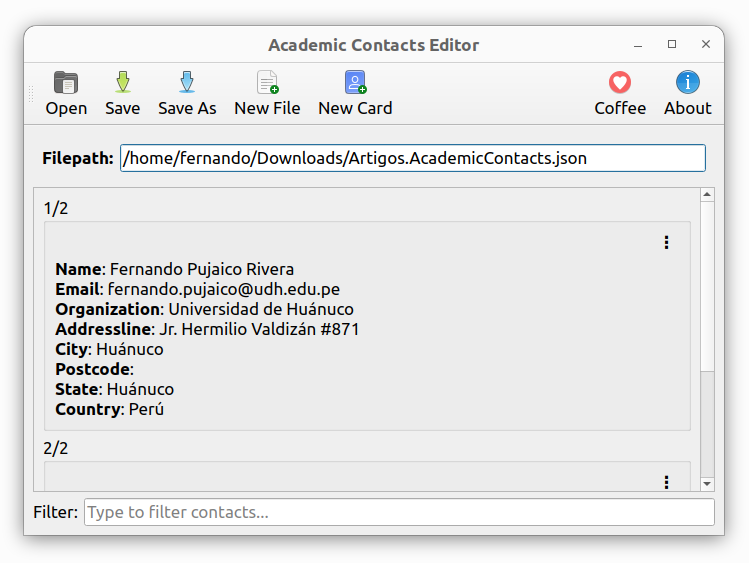
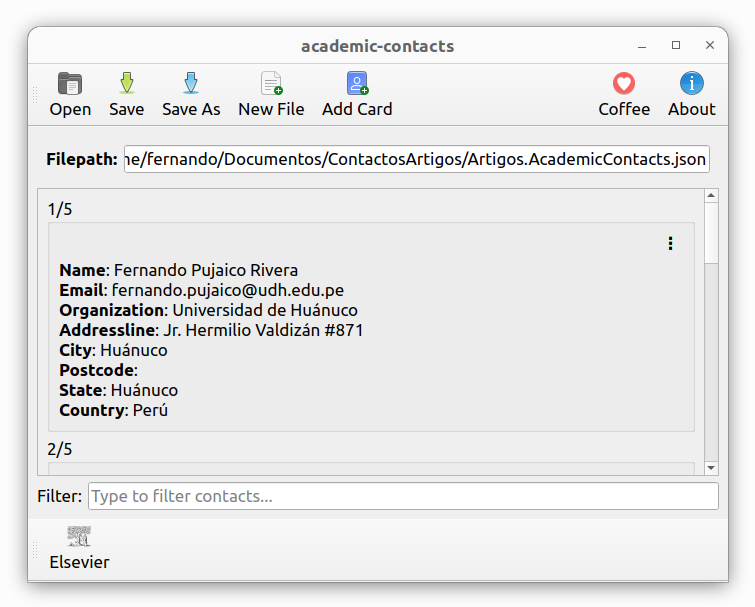
Mejorando codigo Elsevier

Changed region(s): [[0.0307, 0.0302, 0.9826, 0.9663], [0.8598, 0.3925, 0.8905, 0.4227]]

diff --git a/src/academic_contacts/program.py b/src/academic_contacts/program.py
@@ -65,33 +65,58 @@ class LatexDialog(QDialog):
 def show_latex_message(parent, text):
     dlg = LatexDialog(text, parent)
     dlg.exec_()
-    
+
+def latex_escape(text):
+    replacements = {
+        '\\': r'\textbackslash{}',
+        '{': r'\{',
+        '}': r'\}',
+        '#': r'\#',
+        '$': r'\$',
+        '%': r'\%',
+        '&': r'\&',
+        '_': r'\_',
+        '~': r'\textasciitilde{}',
+        '^': r'\^{}',
+    }
+    for char, repl in replacements.items():
+        text = text.replace(char, repl)
+    return text
+
+
 def export_elsevier_authors(data):
     # --- Tabelas para mapear afiliações ---
     affiliation_map = {}   # string da afiliação -> índice
     affiliations = []      # lista de afiliações únicas
     latex_lines = []
 
-    for entry in data:
+    if len(data)==0:
+        return ""
+    
+    
+    name = latex_escape(data[0]['name'].strip())
+    latex_lines.append(f"\\cortext[cor1]{{{name}}}\n")
+
+    for ID, entry in enumerate(data):
         # Verificar obrigatórios
         for key in ["name", "email", "organization"]:
             if key not in entry or not entry[key].strip():
                 raise ValueError(f"O campo obrigatório '{key}' está ausente ou vazio para {entry.get('name','<desconhecido>')}")
 
-        org = entry["organization"].strip()
+        org = latex_escape(entry["organization"].strip())
 
         # Montar chave única da afiliação (string padronizada)
         parts = [f"organization={{{org}}}"]
         if entry.get("addressline"):
-            parts.append(f"addressline={{{entry['addressline'].strip()}}}")
+            parts.append(f"addressline={{{latex_escape(entry['addressline'].strip())}}}")
         if entry.get("city"):
-            parts.append(f"city={{{entry['city'].strip()}}}")
+            parts.append(f"city={{{latex_escape(entry['city'].strip())}}}")
         if entry.get("postcode"):
-            parts.append(f"postcode={{{entry['postcode'].strip()}}}")
+            parts.append(f"postcode={{{latex_escape(entry['postcode'].strip())}}}")
         if entry.get("state"):
-            parts.append(f"state={{{entry['state'].strip()}}}")
+            parts.append(f"state={{{latex_escape(entry['state'].strip())}}}")
         if entry.get("country"):
-            parts.append(f"country={{{entry['country'].strip()}}}")
+            parts.append(f"country={{{latex_escape(entry['country'].strip())}}}")
 
         aff_string = ",\n            ".join(parts)
 
@@ -104,8 +129,14 @@ def export_elsevier_authors(data):
             aff_index = affiliation_map[aff_string]
 
         # Adicionar autor
-        latex_lines.append(f"\\author[{aff_index}]{{{entry['name'].strip()}}}")
-        latex_lines.append(f"\\ead{{{entry['email'].strip()}}}")
+        name = latex_escape(entry['name'].strip())
+        email = latex_escape(entry['email'].strip())
+
+        if ID==0:
+            latex_lines.append(f"\\author[{aff_index}]{{{name}\\corref{{cor1}}}}")
+        else:
+            latex_lines.append(f"\\author[{aff_index}]{{{name}}}")
+        latex_lines.append(f"\\ead{{{email}}}")
         latex_lines.append("")
 
     # Adicionar blocos de afiliação no final
@@ -114,6 +145,7 @@ def export_elsevier_authors(data):
         latex_lines.append("")
 
     return "\n".join(latex_lines)
+
 
 
 class ContactEditor(QDialog):
@@ -211,7 +243,7 @@ class AcademicContactsApp(QMainWindow):
         toolbar.addAction(new_file_action)
 
         #
-        new_card_action = QAction(QIcon.fromTheme("contact-new"), "New Card", self)
+        new_card_action = QAction(QIcon.fromTheme("contact-new"), "Add Card", self)
         new_card_action.setToolTip("Add a new card to current view")
         new_card_action.triggered.connect(self.add_new_card)
         toolbar.addAction(new_card_action)

diff --git a/src/academic_contacts/about.py b/src/academic_contacts/about.py
@@ -1,6 +1,6 @@
 # about.py
 
-__version__ = "0.1.3"
+__version__ = "0.1.4"
 __package__ = "academic_contacts"
 __program_name__ = "academic-contacts"
 __author__ = "Fernando Pujaico Rivera" 
